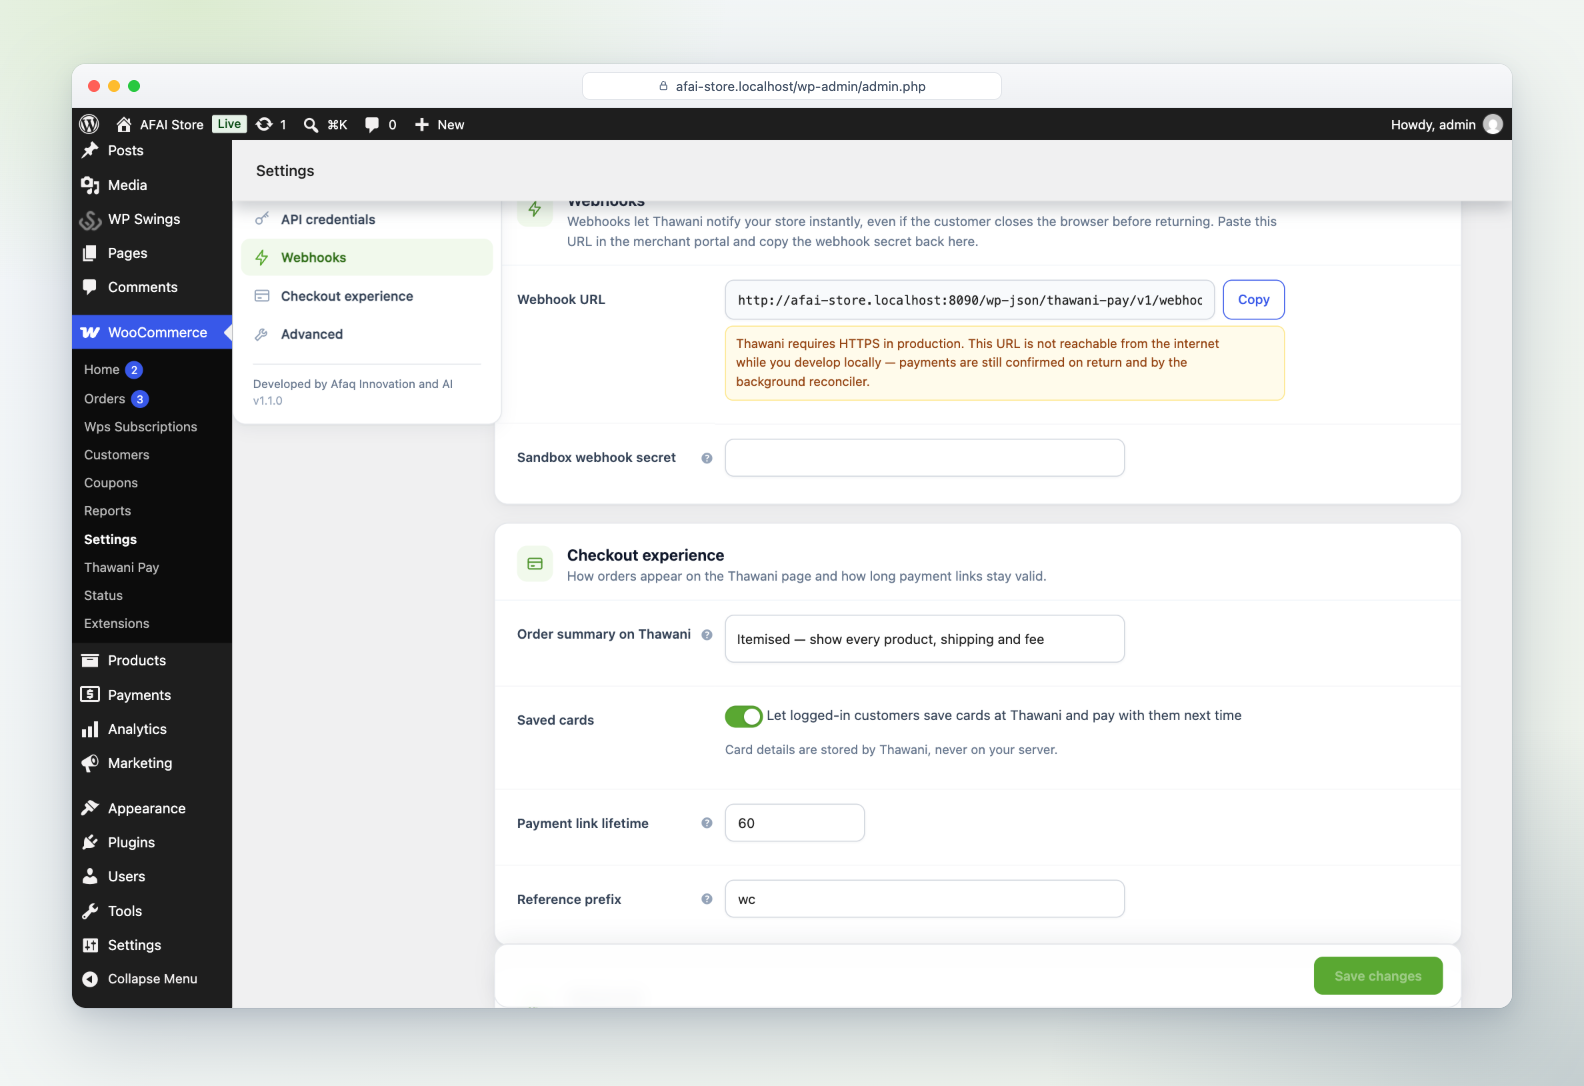
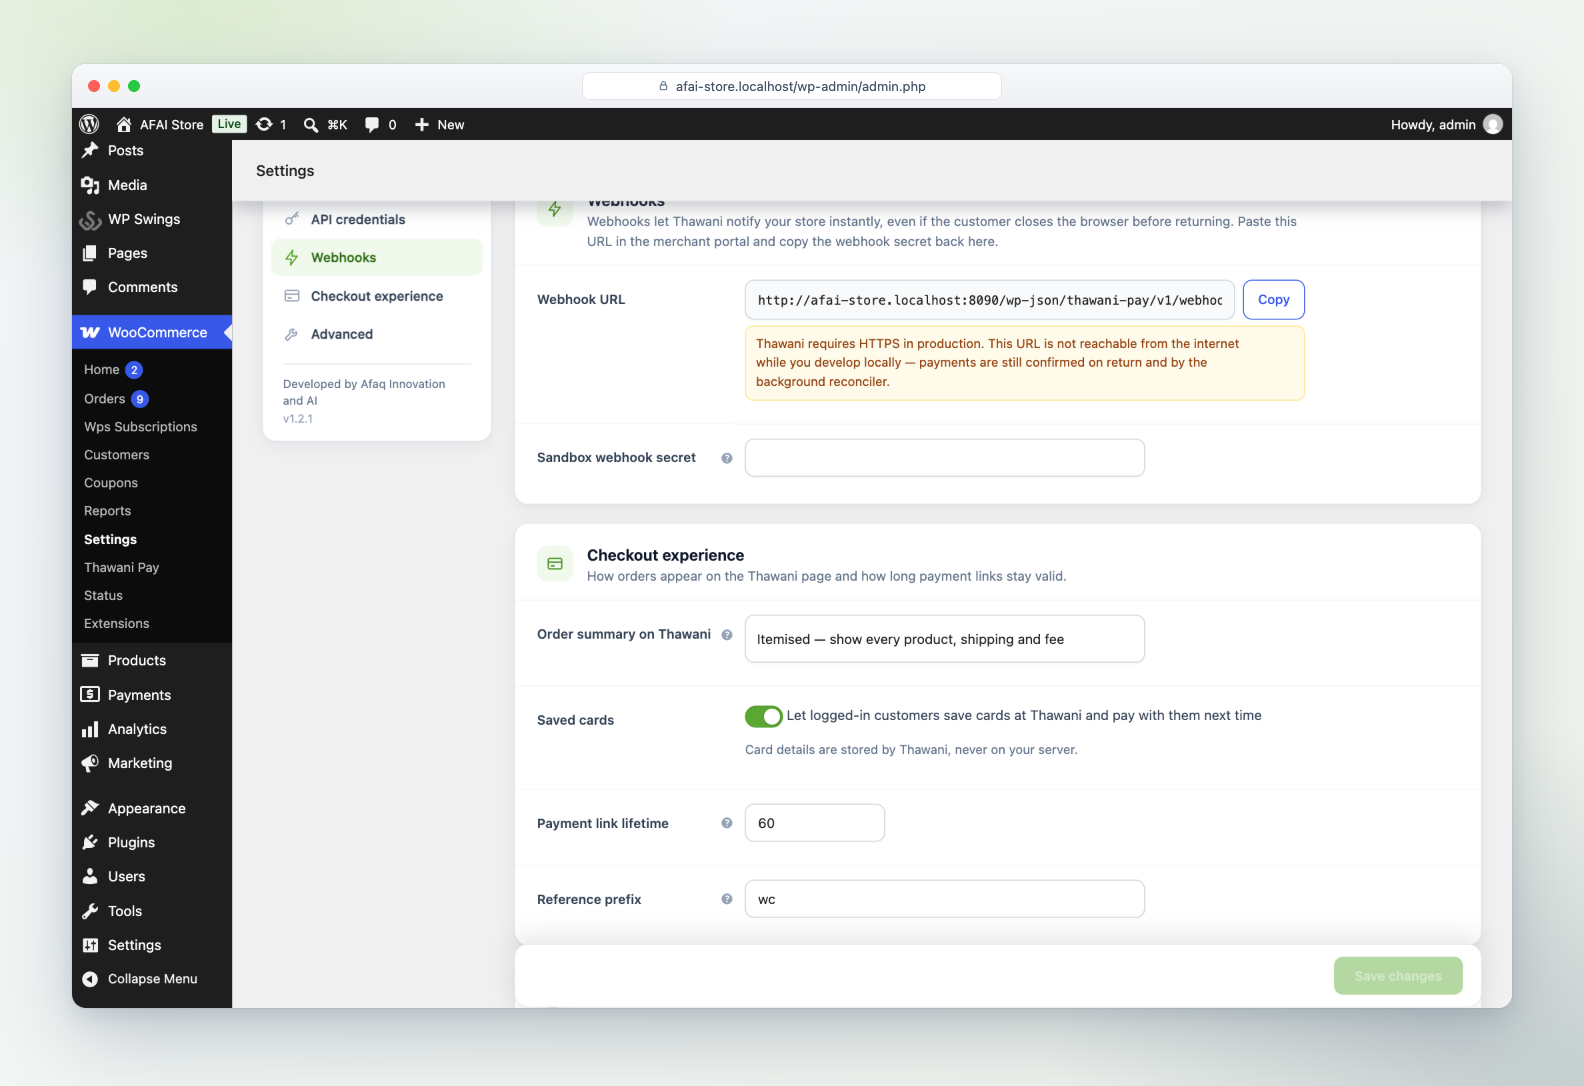
Fix settings navigation alignment and use full width on large screens
WooCommerce gives every nav element inside the settings form a -30px
horizontal margin, which pushed the section menu out of line with the
header and cards. Neutralise it for the plugin's menu, widen the layout
to 1600px and make the save bar opaque. Version 1.2.1.

diff --git a/assets/css/admin.css b/assets/css/admin.css
@@ -25,7 +25,7 @@
 
 /* ---------- shared building blocks ---------- */
 
-.tp-settings, .tp-wrap { color: var(--tp-ink); max-width: 1200px; }
+.tp-settings, .tp-wrap { color: var(--tp-ink); max-width: 1600px; }
 .tp-settings *, .tp-wrap * { box-sizing: border-box; }
 
 .tp-hero {
@@ -88,7 +88,9 @@ table.tp-hidden { display: none; }
 
 /* ---------- settings: layout, nav, section cards ---------- */
 
-.tp-layout { display: grid; grid-template-columns: 210px minmax(0, 1fr); gap: 22px; align-items: start; }
+.tp-layout { display: grid; grid-template-columns: 230px minmax(0, 1fr); gap: 22px; align-items: start; }
+/* WooCommerce styles every nav in the settings form with a negative margin; neutralise it for ours. */
+body.woocommerce_page_wc-settings #mainform .tp-nav, .tp-nav { margin: 0; width: auto; }
 .tp-nav { position: sticky; top: 46px; display: grid; gap: 2px; padding: 8px; background: #fff; border: 1px solid var(--tp-line); border-radius: var(--tp-radius); box-shadow: var(--tp-shadow); }
 .tp-nav__link { display: flex; align-items: center; gap: 10px; padding: 9px 12px; border-radius: 9px; color: var(--tp-ink-2); font-weight: 560; text-decoration: none; }
 .tp-nav__link svg { color: #94a3b8; flex: none; }
@@ -146,10 +148,11 @@ table.tp-hidden { display: none; }
 .tp-sections .button.thawani-pay-test:hover { border-color: var(--tp-brand); color: var(--tp-brand-600); }
 
 /* sticky save bar (JS moves WooCommerce's submit button here) */
-.tp-savebar { position: sticky; bottom: 0; z-index: 5; display: flex; justify-content: flex-end; align-items: center; gap: 12px; margin-top: 4px; padding: 12px 18px; border: 1px solid var(--tp-line); border-radius: var(--tp-radius); background: rgba(255, 255, 255, .97); backdrop-filter: blur(8px); box-shadow: 0 -6px 20px rgba(15, 23, 42, .06); }
+.tp-savebar { position: sticky; bottom: 0; z-index: 5; display: flex; justify-content: flex-end; align-items: center; gap: 12px; margin-top: 4px; padding: 12px 18px; border: 1px solid var(--tp-line); border-radius: var(--tp-radius); background: #fff; box-shadow: 0 -8px 24px rgba(15, 23, 42, .10); }
 .tp-savebar p.submit { margin: 0; padding: 0; }
 .tp-savebar .woocommerce-save-button { height: 38px; padding: 0 20px !important; border-radius: 9px !important; background: var(--tp-brand) !important; border-color: var(--tp-brand) !important; font-weight: 600; }
 .tp-savebar .woocommerce-save-button:hover { background: var(--tp-brand-600) !important; }
+.tp-savebar .woocommerce-save-button:disabled { opacity: .45; cursor: default; }
 .tp-savebar__hint { margin-inline-end: auto; color: var(--tp-muted); font-size: 12.5px; }
 
 /* ---------- transactions ---------- */

diff --git a/thawani-pay-for-woocommerce.php b/thawani-pay-for-woocommerce.php
@@ -3,7 +3,7 @@
  * Plugin Name:          Thawani Pay for WooCommerce
  * Plugin URI:           https://github.com/afaq-innovation-ai/thawani-pay-for-woocommerce
  * Description:          Accept debit and credit card payments in Omani Rial through Thawani Checkout — hosted checkout, saved cards, subscriptions, one-click refunds, signed webhooks and automatic payment reconciliation.
- * Version:              1.2.0
+ * Version:              1.2.1
  * Requires at least:    6.2
  * Requires PHP:         7.4
  * Requires Plugins:     woocommerce
@@ -21,7 +21,7 @@
 
 defined( 'ABSPATH' ) || exit;
 
-define( 'THAWANI_PAY_VERSION', '1.2.0' );
+define( 'THAWANI_PAY_VERSION', '1.2.1' );
 define( 'THAWANI_PAY_FILE', __FILE__ );
 define( 'THAWANI_PAY_PATH', plugin_dir_path( __FILE__ ) );
 define( 'THAWANI_PAY_URL', plugin_dir_url( __FILE__ ) );

diff --git a/CHANGELOG.md b/CHANGELOG.md
@@ -3,6 +3,12 @@
 All notable changes to this project are documented here. The format follows
 [Keep a Changelog](https://keepachangelog.com/en/1.1.0/) and the project uses [Semantic Versioning](https://semver.org/).
 
+## [1.2.1] — 2026-09-30
+
+### Fixed
+- Settings screen: the section menu was shifted 30px to the left by a WooCommerce rule for navigation elements inside the settings form; it now lines up with the header and cards.
+- Settings and transactions screens use the full width of large monitors (up to 1600px), and the save bar is fully opaque.
+
 ## [1.2.0] — 2026-09-30
 
 ### Changed
@@ -42,6 +48,7 @@ All notable changes to this project are documented here. The format follows
 - HPOS and Cart & Checkout blocks compatibility declarations.
 - PHPUnit tests, WordPress Coding Standards, CI and release workflows, Docker development stack.
 
+[1.2.1]: https://github.com/afaq-innovation-ai/thawani-pay-for-woocommerce/releases/tag/v1.2.1
 [1.2.0]: https://github.com/afaq-innovation-ai/thawani-pay-for-woocommerce/releases/tag/v1.2.0
 [1.1.0]: https://github.com/afaq-innovation-ai/thawani-pay-for-woocommerce/releases/tag/v1.1.0
 [1.0.0]: https://github.com/afaq-innovation-ai/thawani-pay-for-woocommerce/releases/tag/v1.0.0
